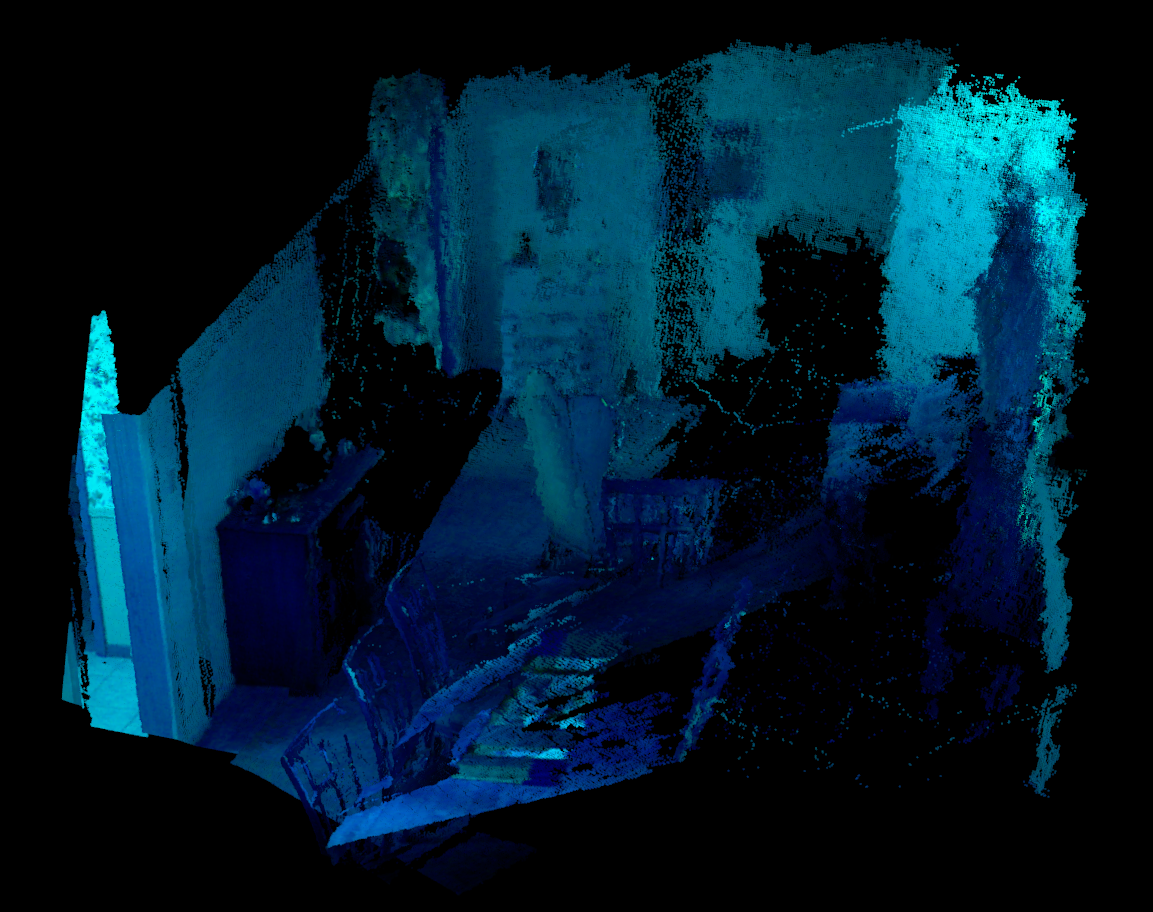
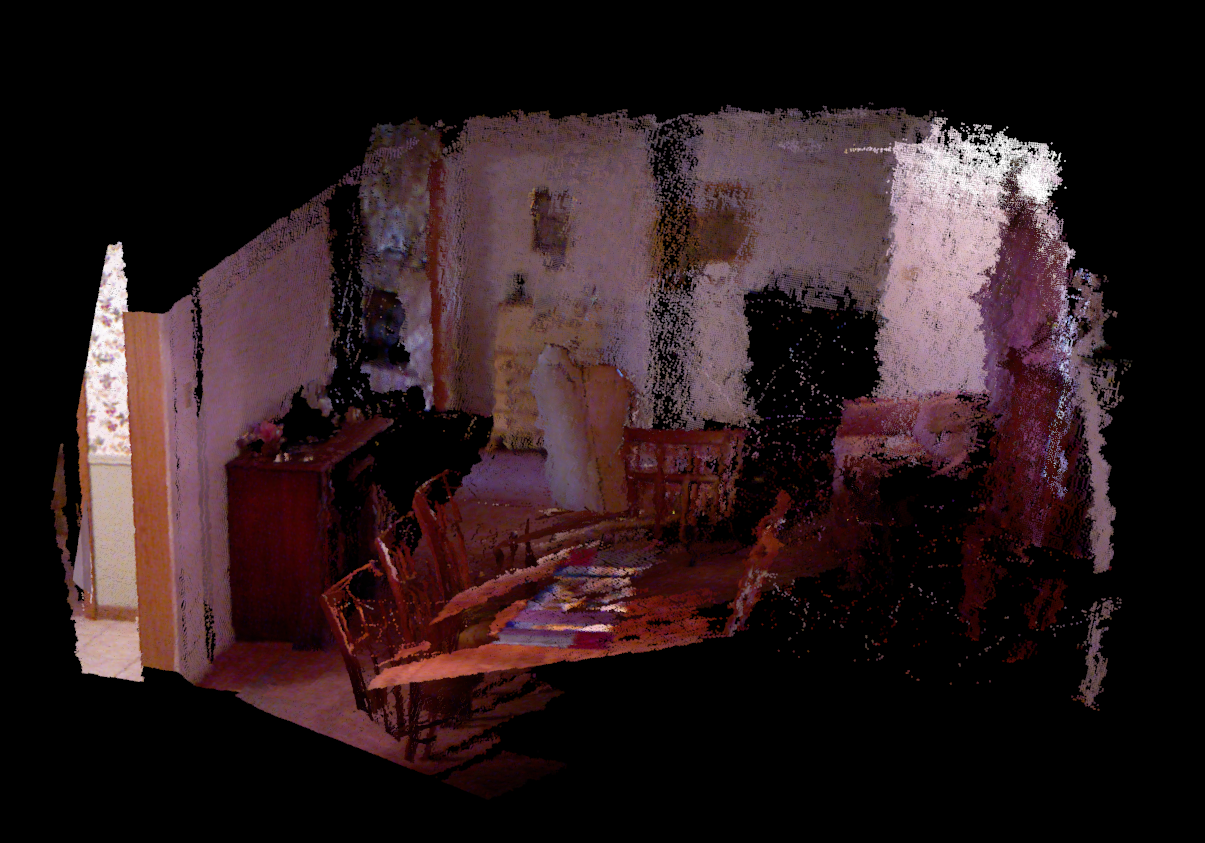
fix bug in ch5

diff --git a/ch5_Image/main.cpp b/ch5_Image/main.cpp
@@ -35,7 +35,7 @@ void joinMap()
 
         double data[7] = {0};
         for (auto& d:data)
-            fin >> d;   // ????
+            fin >> d;   // read camera pose to data array
         Eigen::Quaterniond q(data[6], data[3], data[4], data[5]);
         Eigen::Isometry3d T(q);
         T.pretranslate(Eigen::Vector3d(data[0], data[1], data[2]));
@@ -75,9 +75,9 @@ void joinMap()
                 point_data.x = point_world[0];
                 point_data.y = point_world[1];
                 point_data.z = point_world[2];
-                point_data.b = color.data[v * color.step + u * color.channels()];
+                point_data.b = color.data[v * color.step + u * color.channels()];   // ???
                 point_data.g = color.data[v * color.step + u * color.channels() + 1];
-                point_data.b = color.data[v * color.step + u * color.channels() + 2];
+                point_data.r = color.data[v * color.step + u * color.channels() + 2];
                 point_cloud -> points.push_back(point_data);
             }
     }
@@ -99,7 +99,7 @@ void imageBasics()
         return;
     }
 
-    // input basic info
+    // print image basic info
     std::cout << "width: " << image.cols << ", height: "
         << image.rows << ", channels: " << image.channels() << std::endl;
     cv::imshow("image", image);
@@ -112,12 +112,12 @@ void imageBasics()
     }
 
     // access image element
-    // use std::chrono to time
+    // use std::chrono to timing
     std::chrono::steady_clock::time_point t1 = std::chrono::steady_clock::now();
     for (size_t y = 0; y < image.rows; ++y){
         for (size_t x = 0; x < image.cols; ++x){
             // use cv::Mat::ptr to get row pointer
-            unsigned char* row_ptr = image.ptr<unsigned char>(y);//image.ptr<unsigned char>(y);
+            unsigned char* row_ptr = image.ptr<unsigned char>(y);   //image.ptr<unsigned char>(y);
             unsigned char* data_ptr = &row_ptr[x * image.channels()];
             // print every channel
             for (int c = 0; c != image.channels(); ++c){
